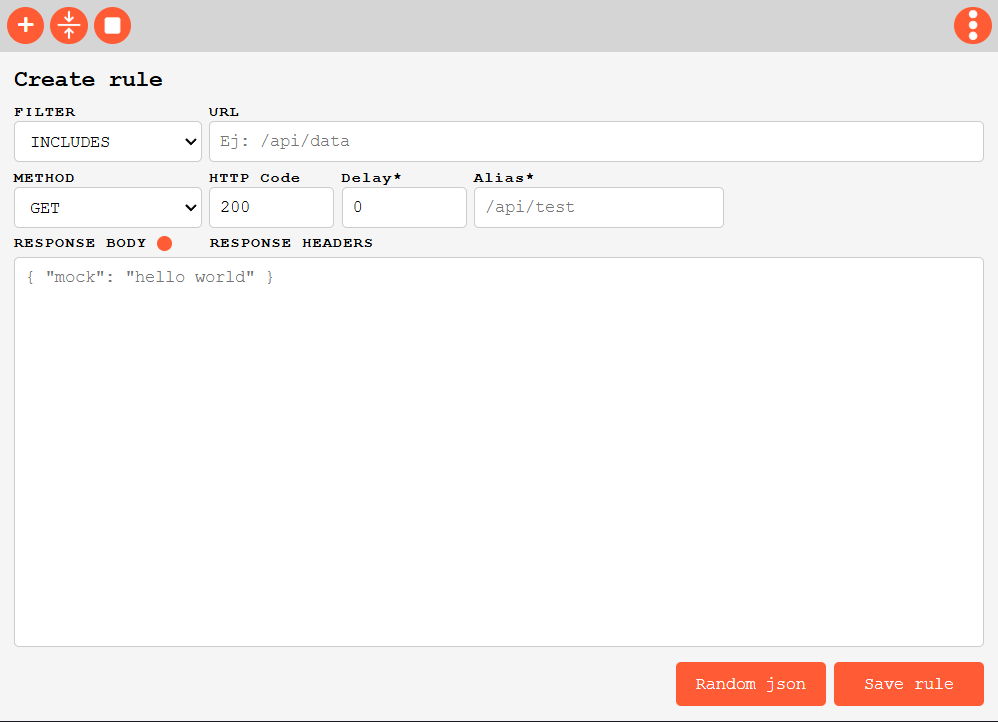
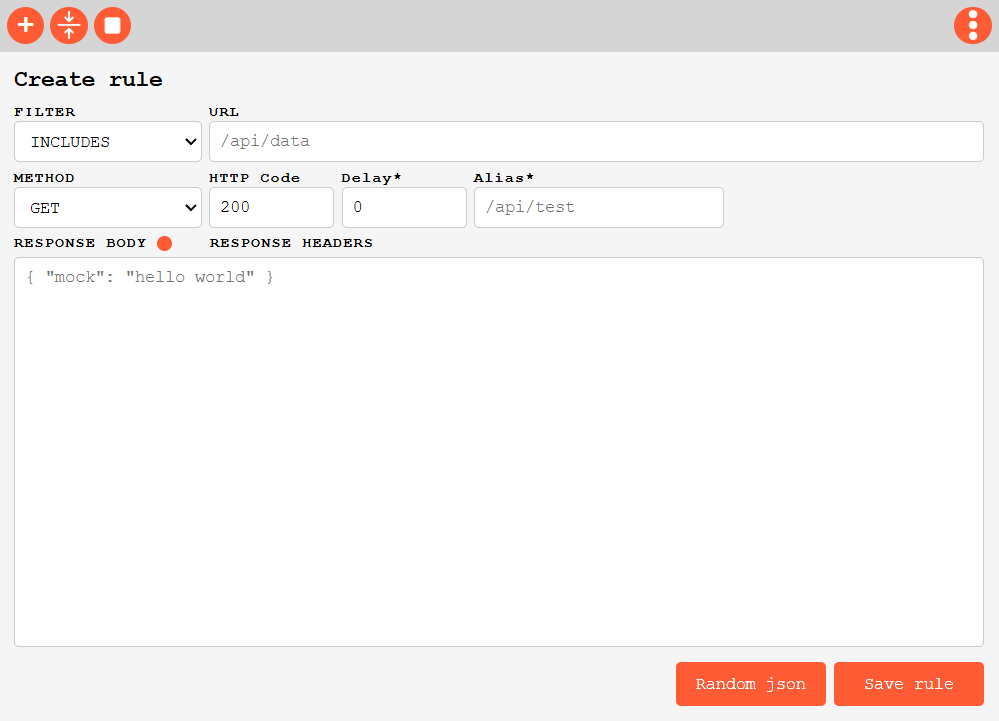
changed url pattern placeholder

diff --git a/popup.html b/popup.html
@@ -44,7 +44,7 @@
                     </div>
                     <div class="form-input">
                         <label for="url-pattern">URL</label>
-                        <input type="text" id="url-pattern" placeholder="Ej: /api/data">
+                        <input type="text" id="url-pattern" placeholder="/api/data">
                     </div>
                 </div>
     
